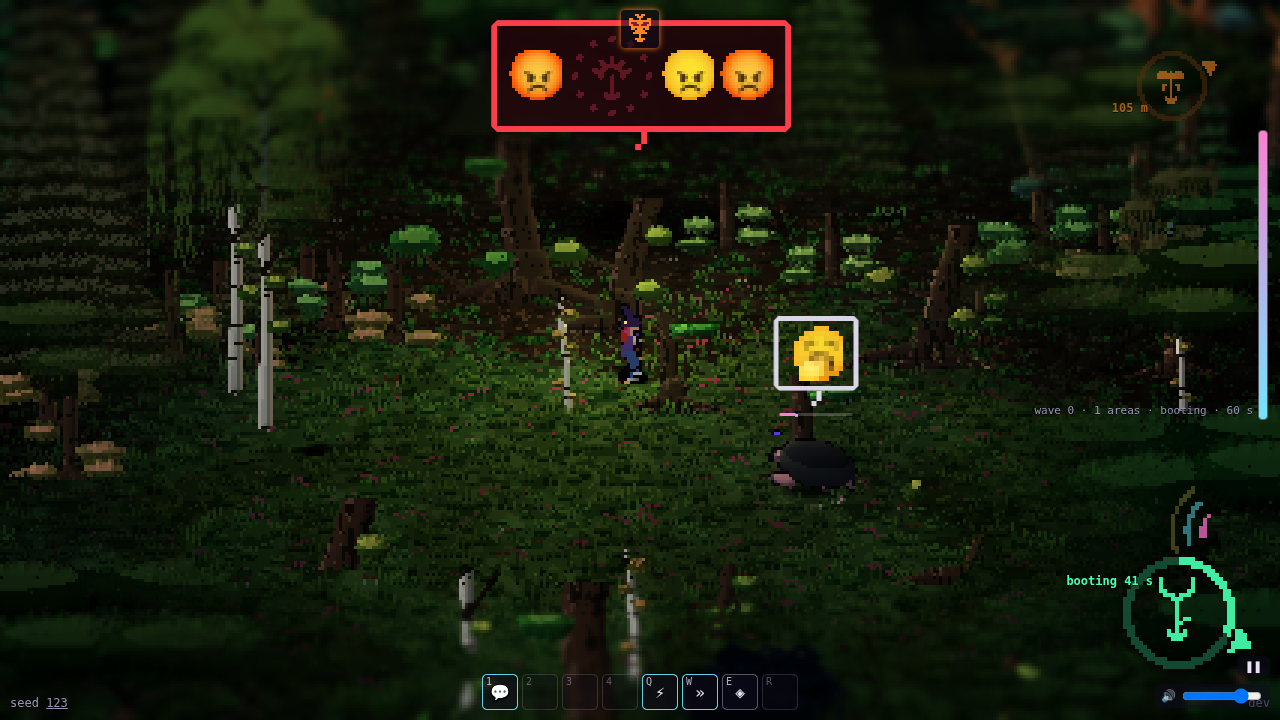
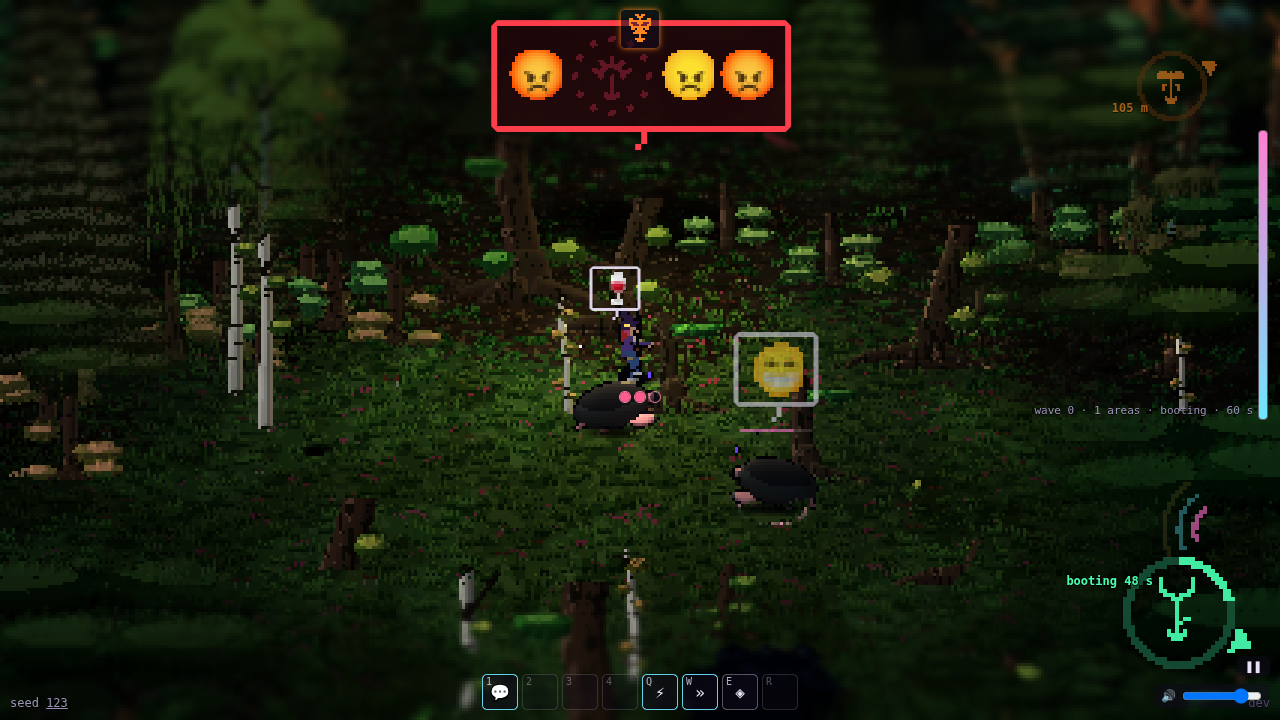
Dreams only near on the ground, pointing at the nearest runestone of its kind
Ed's rulings (2026-10-05): a sleeping legend's dream or nightmare bubble shows
only to a witch on the ground within dreams.range (60 m) of it, never from the
treetops; its direction glow points at the runestone of the nearest area whose
type's creature it dreams of, explored or not (rules/dream.ts), steady rather
than following animals, and no longer from area memory. Area memory stays as
its own treetop view. The glow now sits at the bubble's edge, in the dreamed
creature's colour.

Claude-Session: https://claude.ai/code/session_01VpVux54r6d7xX8jYKXai88

diff --git a/src/render/leash.ts b/src/render/leash.ts
@@ -10,8 +10,9 @@
 // - the talk: emoji speech bubbles taking turns over the witch and the creature (HTML, over the
 //   canvas), with a bar for how far the conversation has got.
 // The sigils are the art builder's (art/sigils.js), drawn per species and level into an atlas.
-import { drawAreaMemory, drawDreamDirection, type AddSprite } from "./areaMemory";
-import { nearestSeen, restlessness } from "../rules/memory";
+import { drawAreaMemory, type AddSprite } from "./areaMemory";
+import { restlessness } from "../rules/memory";
+import { dreamStone } from "../rules/dream";
 import { beatTime } from "../rules/beat";
 import * as THREE from "three";
 import { drawSigil, sigilColour } from "../../art/generator.js";
@@ -310,8 +311,7 @@ export class LeashView {
     }
   }
 
-  /** From the treetops: the areas she remembers (render/areaMemory.ts), and each dream's direction,
-   *  toward the nearest area where she's seen what it dreams of (rules/memory.ts). */
+  /** From the treetops: the areas she remembers (render/areaMemory.ts; rules/memory.ts). */
   private drawMemory(time: number): void {
     const g = this.game, t = g.tuning, w = g.witch, mem = g.witches[0].memory, up = w.lift * w.lift * (3 - 2 * w.lift);
     if (up < 0.02 || !mem) return;
@@ -320,32 +320,25 @@ export class LeashView {
     const sigil: AddSprite = (x, y, z, size, sp, level, r, gg, b, a) => this.standing.add(x, y, z, size, sp ? this.uv(this.slotOf(sp, level)) : dot, r, gg, b, a);
     const mote: AddSprite = (x, y, z, size, _sp, _l, r, gg, b, a) => this.standing.add(x, y, z, size, dot, r, gg, b, a);
     drawAreaMemory(mem, g.map, w.x, w.z, canopy, up, time, colour, sigil, mote);
-    this.dreamDirs.clear();
-    for (const c of this.dreams) {
-      const target = nearestSeen(mem, c.quest!.species, c.x, c.z, g.map, `${c.cell[0]},${c.cell[1]}`);
-      if (!target) continue;
-      this.dreamDirs.set(c.id, target);
-      drawDreamDirection(c.x, c.z, target.x, target.z, canopy, up, time, c.id, colour(c.quest!.species), mote);
-    }
   }
-  /** Each dreaming legend's direction this frame: where she's seen what it dreams of. */
-  private dreamDirs = new Map<number, { x: number; z: number }>();
+  /** Each dreaming legend's runestone to point at (rules/dream.ts), by legend: the map never changes. */
+  private dreamStones = new Map<number, { x: number; z: number } | null>();
 
   /** Sleeping legends dreaming this frame (the first quest), drawn as thought bubbles by drawDreams. */
   private dreams: Creature[] = [];
   private dreamEls: HTMLElement[] = [];
 
-  /** A sleeping legend's dream (the first quest, Ed 2026-10-04): a thought bubble over it holding the
+  /** A sleeping legend's dream (the first quest, Ed 2026-10-04): a bubble over it holding the
    *  sigil of the creature it wants, in its colour, drawn in that level's variant (Ed, 2026-10-05:
-   *  the sigil's own level look, no pips). From the treetops the bubble floats high over it, so the
-   *  forest's dreams can be read from above. HTML, like the talk bubbles, so it reads at any zoom. */
+   *  the sigil's own level look, no pips). Only to a witch on the ground near it (dreams.range;
+   *  Ed, 2026-10-05: never from the treetops). HTML, like the talk bubbles, so it reads at any zoom. */
   private drawDreams(camera: THREE.Camera, width: number, height: number): void {
-    const host = this.bubbleWitch?.parentElement, w = this.game.witch, treetops = w.lift > 0.5;
+    const host = this.bubbleWitch?.parentElement, g = this.game, w = g.witch, range = g.tuning.dreams.range;
     if (!host) return;
-    const list = this.dreams.map(c => ({ c, d: Math.hypot(c.x - w.x, c.z - w.z) })).sort((p, q) => p.d - q.d).slice(0, 12);
+    const list = w.mode !== "ground" || w.lift > 0.5 ? [] : this.dreams.map(c => ({ c, d: Math.hypot(c.x - w.x, c.z - w.z) })).filter(p => p.d <= range).sort((p, q) => p.d - q.d).slice(0, 4);
     let used = 0;
     for (const { c } of list) {
-      const y = treetops ? 16 : Math.min(this.tops.get(c.id) ?? 2, 4.5) + 1.2;
+      const y = Math.min(this.tops.get(c.id) ?? 2, 4.5) + 1.2;
       placed(this.v.set(c.x, y, c.z)).project(camera);
       if (this.v.z > 1 || Math.abs(this.v.x) > 1.1 || Math.abs(this.v.y) > 1.1) continue;
       let el = this.dreamEls[used];
@@ -379,16 +372,17 @@ export class LeashView {
       const bx = ((this.v.x + 1) / 2) * width, by = ((1 - this.v.y) / 2) * height;
       el.style.left = `${bx}px`;
       el.style.top = `${by}px`;
-      // (From the treetops a dream reads a little smaller; a nightmare stays full size, a warning from afar, and shakes.)
-      const shake = faces ? r * 2.5 * Math.sin(performance.now() * 0.05 + c.id) : 0;
-      el.style.transform = `translate(calc(-50% + ${shake.toFixed(1)}px), -100%) scale(${treetops && !faces ? 0.8 : 1})`;
-      // Its direction (rules/memory.ts): a soft glow on the side of the bubble facing the nearest
-      // area where she's seen what it dreams of; none if she's seen it nowhere.
-      const to = this.dreamDirs.get(c.id);
+      const shake = faces ? r * 2.5 * Math.sin(performance.now() * 0.05 + c.id) : 0; // (a nightmare shakes)
+      el.style.transform = `translate(calc(-50% + ${shake.toFixed(1)}px), -100%)`;
+      // Its direction (rules/dream.ts): a soft glow on the side of the bubble facing the runestone
+      // of the nearest area of the kind it dreams of, explored or not.
+      if (!this.dreamStones.has(c.id)) this.dreamStones.set(c.id, dreamStone(g.map, q.species, c.x, c.z));
+      const to = this.dreamStones.get(c.id);
       let dir = el.querySelector<HTMLElement>(".dream-dir");
       if (to) {
-        placed(this.v.set(to.x, y, to.z)).project(camera);
-        const ang = Math.atan2(((1 - this.v.y) / 2) * height - by, ((this.v.x + 1) / 2) * width - bx), col = this.colours.get(q.species);
+        const d = Math.hypot(to.x - c.x, to.z - c.z) || 1; // (a step its way, not the stone itself: that may be behind the camera)
+        placed(this.v.set(c.x + ((to.x - c.x) / d) * 8, y, c.z + ((to.z - c.z) / d) * 8)).project(camera);
+        const ang = Math.atan2(((1 - this.v.y) / 2) * height - by, ((this.v.x + 1) / 2) * width - bx), col = this.colours.get(q.species) ?? (this.slotOf(q.species, 0), this.colours.get(q.species));
         if (!dir) {
           dir = document.createElement("div");
           dir.className = "dream-dir";
@@ -403,6 +397,9 @@ export class LeashView {
         const rgb = col ? `${Math.round(col.r * 255)},${Math.round(col.g * 255)},${Math.round(col.b * 255)}` : "225,215,255";
         (dir.firstChild as HTMLElement).style.background = `radial-gradient(ellipse at 20% 50%, rgba(${rgb},.9), rgba(${rgb},0) 72%)`;
         dir.style.transform = `rotate(${ang}rad)`;
+        // (from the bubble's edge that way, however big it is)
+        const hw = el.offsetWidth / 2, hh = el.offsetHeight / 2, edge = Math.min(hw / Math.max(1e-3, Math.abs(Math.cos(ang))), hh / Math.max(1e-3, Math.abs(Math.sin(ang))));
+        (dir.firstChild as HTMLElement).style.left = `${Math.round(edge - 6)}px`;
         dir.style.display = "";
       } else if (dir) dir.style.display = "none";
       used++;

diff --git a/src/rules/memory.ts b/src/rules/memory.ts
@@ -1,11 +1,9 @@
-// Area memory (Ed, 2026-10-05: "the legend's dream also gives a direction. That way you're still
-// exploring, but it's 1d instead of 2d, and a good player knows exactly where to go just from the
-// canopy"). An area a witch has landed in remembers what she saw there: which species live there,
-// and roughly how many are wild, happy or enraged. It's a snapshot of her last visit, refreshed
-// while she's on the ground there and frozen once she leaves; areas she hasn't landed in stay
-// unknown. From the treetops a remembered area shows faintly (render/areaMemory.ts), and a sleeping
-// legend's dream points toward the nearest remembered area where its species was seen. Each witch
-// keeps her own (co-op: what she's seen is hers). No drawing here.
+// Area memory (Ed, 2026-10-05). An area a witch has landed in remembers what she saw there: which
+// species live there, and roughly how many are wild, happy or enraged. It's a snapshot of her last
+// visit, refreshed while she's on the ground there and frozen once she leaves; areas she hasn't
+// landed in stay unknown. From the treetops a remembered area shows faintly (render/areaMemory.ts).
+// Each witch keeps her own (co-op: what she's seen is hers). No drawing here. (A dream's direction
+// doesn't use it: rules/dream.ts.)
 import type { Creature } from "./creatures";
 import type { ForestMap } from "./map";
 
@@ -60,16 +58,4 @@ export function stepMemory(mem: MemoryState, onGround: boolean, x: number, z: nu
   }
   const seen = [...by.values()].sort((a, b) => b.wild + b.happy + b.enraged - (a.wild + a.happy + a.enraged) || (a.species < b.species ? -1 : 1));
   mem.areas.set(key, { key, cell, at: time, seen });
-}
-
-/** The nearest remembered area (its key and site) where she saw `species`, from (x, z); null if
- *  she's seen it nowhere. Memory only: never a guess into forest she hasn't walked. */
-export function nearestSeen(mem: MemoryState, species: string, x: number, z: number, map: ForestMap, except?: string): { key: string; x: number; z: number } | null {
-  let best: { key: string; x: number; z: number } | null = null, bd = Infinity;
-  for (const a of mem.areas.values()) {
-    if (a.key === except || !a.seen.some(s => s.species === species)) continue;
-    const site = map.siteOf(a.cell[0], a.cell[1]), d = Math.hypot(site.x - x, site.z - z);
-    if (d < bd) { bd = d; best = { key: a.key, x: site.x, z: site.z }; }
-  }
-  return best;
 }

diff --git a/src/render/areaMemory.ts b/src/render/areaMemory.ts
@@ -3,9 +3,7 @@
 // small, upright and low, just over its canopy near its heart; bigger for more of them, with a few motes
 // for a crowd; tinted by their mood when she was last there (their own colour while wild, rosy
 // when happy, smouldering red when enraged). No numbers, no outlines. Areas she hasn't landed in
-// show nothing: the forest stays dark. And a dream's direction (drawDreamDirection): from a
-// sleeping legend, a thin drift of motes over the canopy toward the nearest area where she's
-// seen the creature it dreams of.
+// show nothing: the forest stays dark.
 import { hash2 } from "../rules/random";
 import type { ForestMap } from "../rules/map";
 import type { MemoryState } from "../rules/memory";
@@ -40,17 +38,5 @@ export function drawAreaMemory(mem: MemoryState, map: ForestMap, wx: number, wz:
         dot(x + Math.cos(ma) * 6, y - 2 + ph * 5, z + Math.sin(ma) * 4.5, 0.9, null, 0, r, g, b, 0.4 * fade * Math.sin(ph * Math.PI));
       }
     });
-  }
-}
-
-/** A dream's direction: motes drifting from a sleeping legend at (lx, lz) toward (tx, tz) just
- *  over the canopy, fading out after `reach` metres: a direction, not a path to the door. */
-export function drawDreamDirection(lx: number, lz: number, tx: number, tz: number, canopy: number, up: number, time: number, seed: number, rgb: { r: number; g: number; b: number }, dot: AddSprite, reach = 70): void {
-  const d = Math.hypot(tx - lx, tz - lz);
-  if (d < 1 || up < 0.02) return;
-  const ux = (tx - lx) / d, uz = (tz - lz) / d, len = Math.min(reach, d * 0.6);
-  for (let k = 0; k < 9; k++) {
-    const ph = (time * 0.12 + k / 9 + hash2(seed, k, 839) * 0.05) % 1, s = 6 + ph * len, wob = Math.sin(time * 1.3 + k * 1.7) * 2;
-    dot(lx + ux * s - uz * wob, canopy + 2.4 + Math.sin(ph * Math.PI) * 2, lz + uz * s + ux * wob, 2, null, 0, rgb.r, rgb.g, rgb.b, 0.6 * up * Math.sin(ph * Math.PI));
   }
 }

diff --git a/src/rules/dream.ts b/src/rules/dream.ts
@@ -1,0 +1,19 @@
+// Where a sleeping legend's dream points (Ed, 2026-10-05): at the runestone of the nearest area of
+// the type whose creature it dreams of, explored or not; steady, not following any one animal.
+// (A stone stands at an area's soundsystem spot, or home's dancefloor: as rules/leylines.ts.)
+import { AREA_TYPES, type ForestMap } from "./map";
+import type { Cell } from "./partition";
+
+/** The runestone of the nearest area (its centre, by site) whose type's creature is `species`,
+ *  from (x, z); null if the map has none. */
+export function dreamStone(map: ForestMap, species: string, x: number, z: number): { cell: Cell; x: number; z: number } | null {
+  let best: Cell | null = null, bd = Infinity;
+  for (let i = 0; i < map.n; i++) for (let j = 0; j < map.n; j++) {
+    if (AREA_TYPES[map.typeOf(i, j)].creature !== species) continue;
+    const s = map.siteOf(i, j), d = Math.hypot(s.x - x, s.z - z);
+    if (d < bd) { bd = d; best = [i, j]; }
+  }
+  if (!best) return null;
+  const home = best[0] === map.centreCell[0] && best[1] === map.centreCell[1], s = home ? map.dancefloor : map.soundsystemSpot(best[0], best[1]);
+  return { cell: best, x: s.x, z: s.z };
+}

diff --git a/src/rules/memory.test.ts b/src/rules/memory.test.ts
@@ -1,5 +1,5 @@
 import { describe, expect, it } from "vitest";
-import { moodOf, nearestSeen, newMemory, restlessness, stepMemory } from "./memory";
+import { moodOf, newMemory, restlessness, stepMemory } from "./memory";
 import type { Creature } from "./creatures";
 import type { ForestMap } from "./map";
 
@@ -33,17 +33,6 @@ describe("area memory", () => {
     stepMemory(m, false, 50, 50, map, inArea, 20);
     expect(m.areas.get("0,0")!.seen[0]).toEqual({ species: "fox", wild: 1, happy: 0, enraged: 1 });
     foxes[0].enraged = false;
-  });
-
-  it("points a dream only at areas where she's seen that species, the nearest first", () => {
-    const m = newMemory();
-    expect(nearestSeen(m, "owl", 0, 0, map)).toBeNull();
-    stepMemory(m, true, 50, 50, map, inArea, 10);
-    stepMemory(m, true, 350, 50, map, inArea, 12);
-    expect(nearestSeen(m, "owl", 400, 50, map)).toEqual({ key: "3,0", x: 350, z: 50 });
-    expect(nearestSeen(m, "owl", 0, 0, map)).toEqual({ key: "0,0", x: 50, z: 50 });
-    expect(nearestSeen(m, "badger", 0, 0, map)).toBeNull();
-    expect(nearestSeen(m, "owl", 0, 0, map, "0,0")?.key).toBe("3,0");
   });
 
   it("snapshots at most once a second", () => {

diff --git a/src/rules/dream.test.ts b/src/rules/dream.test.ts
@@ -1,0 +1,17 @@
+import { describe, expect, it } from "vitest";
+import { dreamStone } from "./dream";
+import { AREA_TYPES, generateMap } from "./map";
+import { TUNING } from "./tuning";
+
+describe("a dream's direction", () => {
+  it("points at the runestone of the nearest area of the dreamed creature's kind, explored or not", () => {
+    const map = generateMap(123, TUNING);
+    const species = AREA_TYPES[map.typeOf(2, 3)].creature, from = map.siteOf(7, 7);
+    const s = dreamStone(map, species, from.x, from.z)!;
+    expect(AREA_TYPES[map.typeOf(s.cell[0], s.cell[1])].creature).toBe(species);
+    // none of its kind is nearer
+    const d = Math.hypot(map.siteOf(s.cell[0], s.cell[1]).x - from.x, map.siteOf(s.cell[0], s.cell[1]).z - from.z);
+    for (let i = 0; i < map.n; i++) for (let j = 0; j < map.n; j++) if (AREA_TYPES[map.typeOf(i, j)].creature === species) expect(Math.hypot(map.siteOf(i, j).x - from.x, map.siteOf(i, j).z - from.z)).toBeGreaterThanOrEqual(d);
+    expect(dreamStone(map, "no-such-creature", from.x, from.z)).toBeNull();
+  });
+});

diff --git a/src/rules/tuning.ts b/src/rules/tuning.ts
@@ -185,6 +185,8 @@ export interface Tuning {
    *  appear beyond the haze's far edge plus growth.hide metres from every witch (rules/growth.ts). */
   population: { start: { babies: number; young: number; adults: number }; growth: { on: boolean; perWave: number; weights: number[]; hide: number } };
   /** Area legends (Ed, 2026-10-04): one an area, asleep till its area's wave, then a mini-boss guarding it. */
+  /** A sleeping legend's dream bubble (Ed, 2026-10-05): shown only to a witch on the ground within range metres of it. */
+  dreams: { range: number };
   wildLegends: { wake: number; sink: number; moss: number; guard: number; heal: number; scale: number; breathe: number; breathEvery: number; aura: number; glow: number };
   creatureSimRadius: number;
   creatureSpeed: number;
